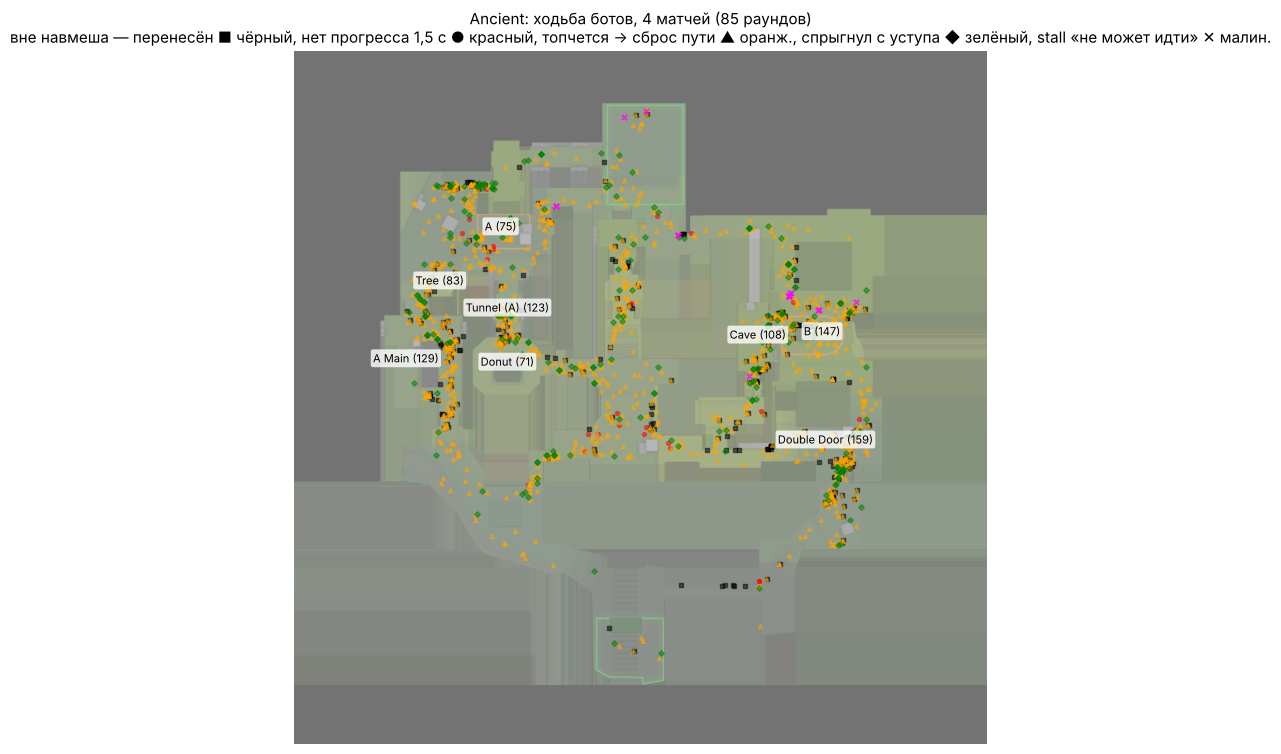
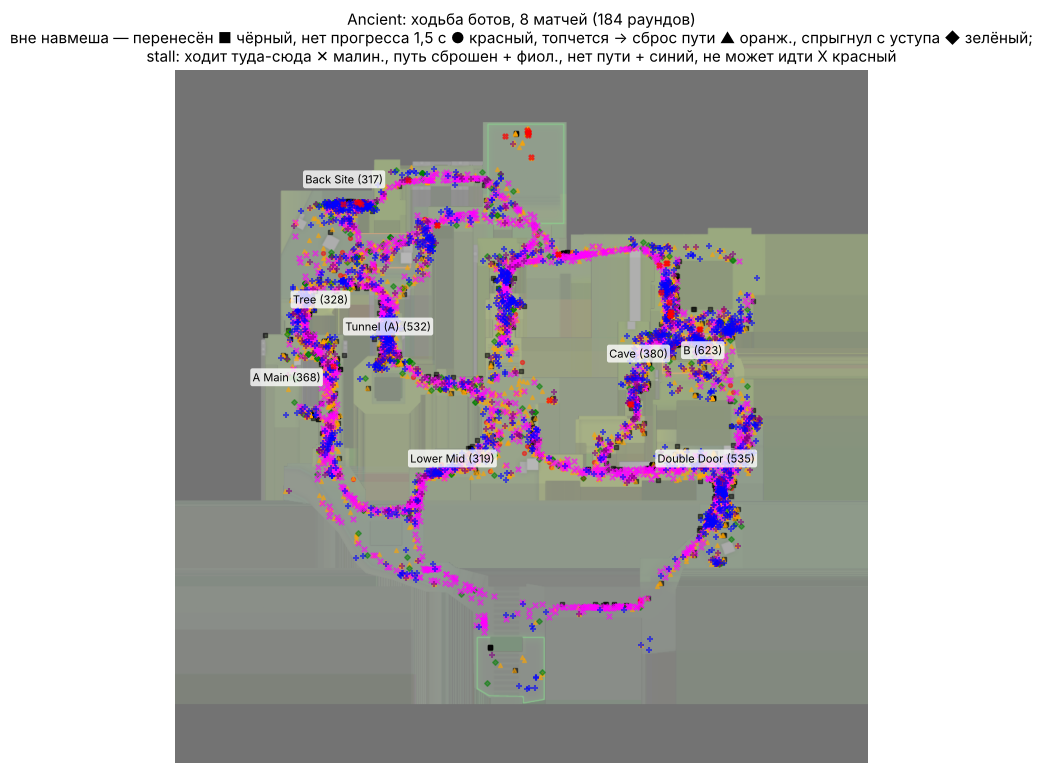
Шаг 0а: ENGINE_AUDIT — ходьба Ancient, запись в DECISIONS (игра не менялась)
Claude-Session: https://claude.ai/code/session_014EoQWYmcrCELxDTLnHuTK7

Changed region(s): [[0.0, 0.0, 1.0, 1.0]]

diff --git a/docs/DECISIONS.md b/docs/DECISIONS.md
@@ -1,5 +1,16 @@
 # Журнал решений (новые записи — сверху)
 
+## 20.10.2026 — Шаг 0а: разбор движка против демок про — видимость, высоты, ходьба (игра не менялась)
+- Отчёт — `docs/reports/ENGINE_AUDIT.md`, раздел «Шаг 0а» (картинки — `docs/reports/engine_audit/`), скрипты — `tools/measure/engine/`
+  (видимость и высоты: `demo_prep.py` → `engine_audit.py vis`; ходьба: `walk_run.py` со сторожем `walk_watch.js` → `engine_audit.py walk`).
+- **Видимость:** убийство про, а `visParts` на тех же точках и высотах «не видит» — Mirage 23,4 %, **Ancient 41,2 %** (стены Ancient,
+  нарисованные руками, режут 35,5 % убийств: Long, Cave, Short, Lower Mid). Mirage: стены сборки на краях уступов (B Apps), ящики A сайта,
+  проверка «центр → центр» (плечо ±14 ед. открывает 29 % «не видно»). Обратная ошибка (видит сквозь стену) — 0,3–1,6 %.
+- **Высоты** в порядке (медиана 3–4 ед.); `hasLOS` берёт верхний пол (под балконами Mirage — 1,4 % времени про), участки навмеша плоские.
+- **Ходьба** (8 матчей на карту): `stall` 1891 / 2124 на 100 раундов, из них «ходит туда-сюда» (путь меняется 3–5 раз за 5 с) 49 / 45 %,
+  «нет пути» 28 / 33 %, «сброшен застреванием» 17 / 19 %, по задаче 3–5 %. Про 5–6 % времени стоят там, где ботов нет (углы у стен и ящиков).
+- Сторож ходьбы — только обёртки-записи: счёт `stall`/`nav` на 8 матчах совпал с замером шума v384 (2124 / 438 против 2117 / 444).
+
 ## 20.10.2026 — Отметка: снимок всего экрана, данные по игрокам и зонам; ревизия доков; план и правило прогонов (v385)
 - **Отметка** (владелец: «фоткался весь экран и бралась информация с каждой зоны, с каждого игрока»): при нажатии M — снимок всего
   экрана (радар, табло, панели, войс; html2canvas с cdnjs, без сети — вид радара; `screenAsset`); в сводке `state` по каждому игроку —
@@ -17,41 +28,3 @@
   занят, уровень), снятие задачи, заказ / отказ / бросок гранаты (причина), смена причины взгляда. Лежит в снимке (`b._dlog`) и в сводке
   отметки (`mkState` → `bots[].log`). Обёртка над `setPost` / `clearPost` / `assignNade` / `throwNade` / `teamBrains` — только запись,
   игру не меняет. 15 с и 60 записей — проектные числа. Ветка `v382-nade-arbiter` (v382–v383) по-прежнему не слита.
-
-## 17.10.2026 — Арбитр взгляда: одна таблица LOOK_LEVEL вместо цепочки причин (v381, М126 шаг 4) + список владельца М130–М137
-- **Взгляд.** Старая цепочка «если… иначе» на ~15 причин в `resolveEngagements` уже не работала (при `BAL.newLook`); живой выбор —
-  `newLookFor`: cover → spam → роум → фейк → точка про → угол дележа → пост, а звук, контакт и инфа шли весами внутри дележа. Отсюда
-  «на точке про не поворачивается на звук/вспышку» (точка про стояла выше), «залипает на контакте» (контакт ×freshK×1,5 в одном
-  числе), «смотрит в напарника» (проверка была только в мёртвой ветке). Теперь одно место — `lookArbiter` + `LOOK_LEVEL`
-  (ARCHITECTURE «Арбитр взгляда»): враг виден → бой (контакт ≤ 1 с, спам, второй угол) → свои уши ≤ 1 с и смерть тиммейта рядом →
-  инфа команды ≤ 1 с → мой угол (задача или делёж) → угол по пути → пост; общий шаг `lookFilter` (не в своего, не в стену, плавность).
-  **Порядок и окно 1 с — проектные.** LKP и контакт старше 1 с — весами в дележе (иначе залипание, v375).
-- Удалено: мёртвая цепочка, `threatLook`, `deathLook`, `saveLook`, `beliefLook`, `smokeSweepLook`, `mateAhead`, `newLookFor`, галочка
-  «новый взгляд»; переключатели (все были включены — стали постоянными) `newLook`, `smoothLook`, `noWallStare`, `noWallLook`,
-  `cornerLook`, `cornerAim`, `lookFix`, `coverFix`, `lkp`, `habits`, `habitLook`, `beliefLook`, `sectors`, `lookFallback`, `deathLook`,
-  `smokeSweep`, `threatLook`, `runGlance`, `proLook`, `claimStrong`, `lookTiming`, `rearCheck`; `loneSave` (выключен — удалён с кодом).
-  Отличие от согласованного плана: отдельного уровня «LKP» нет (см. выше), «точка про» — в уровне «мой угол», а не ниже поста; после
-  прогона `openDirLook` берёт лучшее направление без чередования двух (чередование добавляло метаний).
-- **Замер взгляда у про** (`situations.py`, раздел «взгляд»; 86 демок Mirage / 92 Ancient): повернулся на выстрел врага рядом
-  (≤ 400 px, взгляд был в сторону > 45°) за 1 с — 0,27 / 0,28, медиана 0,73 / 0,75 с; убит в спину 8,2 / 8,7 %, сбоку 5,7 / 7,4 %;
-  первым навёл взгляд на соперника — убийца в 54 / 55 % (Ancient / Mirage).
-- **Список владельца.** М130 — на сейве нет коллов сайта CT и переколлов IGL T (у T проверка сейва стояла после перепривязки).
-  М131 — панели: погибший до закупа показывал оружие, с которым умер (`buyShowStart` брал `b.weapon`). М132 — чтение расстановки CT
-  по увиденному (`knowSetupRead`: доли расстановок `ctSetups.w`, районы — по ролям в расстановках; до 40-й с, при пяти живых —
-  проектные): войс IGL «на миду 2 — у них 2-2-1 или 1-3-1: на A ~2, на B ~1», соло-заход учитывает чтение. М24/М133/М136 — «чекнул
-  X — пусто» только когда все места зоны из демок были в поле зрения у своих ≤ 6 с (проектное); без мест — 2/3 точек зоны у него самого.
-  М134 — уход от бомбы: запас 30 HP (проектное), пересчёт после ранения, поиск до досягаемости взрыва, запасная точка — меньше урона;
-  сейв CT — только вне взрыва и куда успеть дойти (×1,3 к прямой — проектное). М135 — плант только в местах про (`tools/plants_bake.py`
-  → `pro.json` `plants`: Ancient 31 место, Mirage 34). М67 (отметка р9, тик 55140) — срезать путь только по полу своего уровня
-  (`navSegOnLevel`): бот у B Stairs срезал через щель и падал вниз по кругу; на снимке теперь поднимается и идёт дальше.
-  М137 — сейв T: было «1 против 4 за 55 с — всегда», у про выживают без планта 5–10 %; теперь доля как у про (`T_SAVE_PRO` по
-  раскладу и времени, демки обеих карт).
-- **Проверка** (база — v380 на тех же матчах 3 и 7, обе карты; отчёты `check_*_v380b_*`, `check_*_v381_*`): взгляд — реакция на
-  выстрел за 1 с Ancient 0,49 → 0,43, Mirage 0,41 → 0,63 (про 0,27 — боты и так быстрее); в спину 5,2 → 3,1 % / 4,9 → 4,2 %; сбоку
-  4,1 → 4,0 / 6,4 → 3,8 %; первым навёл — убийца 0,52 → 0,48 / 0,52 → 0,56 (про 0,54–0,55); заход на сайт, совпадение направлений
-  с про A 0,65 → 0,75, B 0,68 → 0,76 (Ancient), A 0,80 → 0,75, B 0,57 → 0,63 (Mirage); метания взгляда > 45°/мин 1,38 → 1,71 (Ancient),
-  после правки `openDirLook` на 1 матче 1,47 → 1,41 (про 0,8). Сторож: навмеш 889 → 487 / 1907 → 619, метания войса 17 → 6 / 36 → 2,
-  убийства через дым 41 → 24 / 36 → 19; застой 2087 → 2133 / 2002 → 1709; ожидание на стадии хуже на Ancient (52 → 67, на 1 матче
-  42 → 85), лучше на Mirage (43 → 23) — в пределах разброса двух матчей не решить. Матч 5 (сторож «по списку владельца»): смерти от
-  взрыва 2 → 0 (Mirage), 3 → 2 → 0 после правки сейва CT (Ancient); «чекнул — пусто» 369 → 86 / 337 → 112; «прочекали — пусто» 10 → 1 /
-  10 → 2; коллы на сейве 2 → 0 / 2 → 0; чтение расстановки — 7 коллов (Mirage), 0 (Ancient: расстановки CT в наборе старого вида — без «2-2-1» в id и без ролей по районам; набор Ancient заморожен — нужен пересбор `ctSetups`).

diff --git a/docs/archive/DECISIONS-v194-.md b/docs/archive/DECISIONS-v194-.md
@@ -443,3 +443,4 @@
 - 16.10.2026 — Арбитр места: одна таблица важности задач вместо замков в setPost (v378, М126 этап 6)
 - 16.10.2026 — Подъёмы из демок без бустов (v379, М129)
 - 16.10.2026 — Время начала выхода T с тика 0 (v380, отметка владельца)
+- 17.10.2026 — Арбитр взгляда: одна таблица LOOK_LEVEL вместо цепочки причин (v381, М126 шаг 4) + список владельца М130–М137
